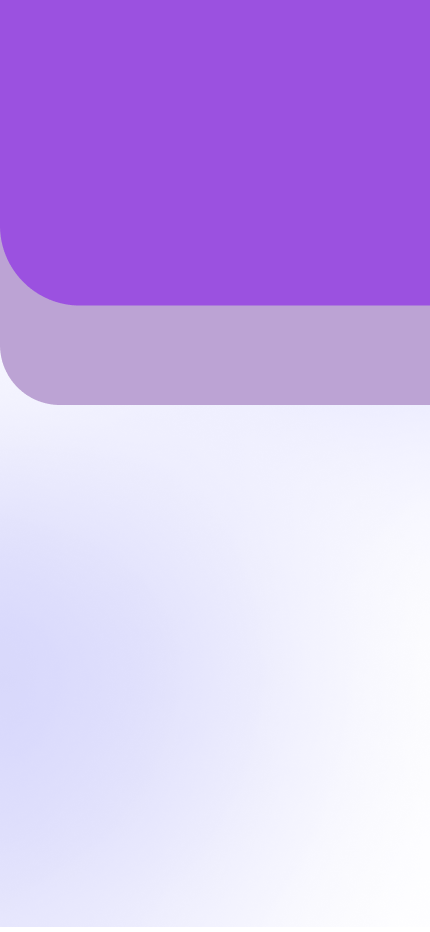
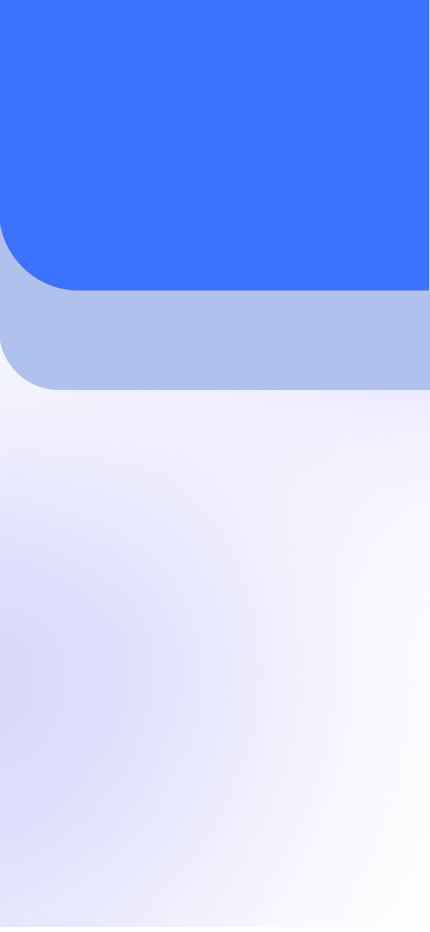
background changed in whole app

diff --git a/lib/employee/main/employee_expense/employee_add_expense_screen.dart b/lib/employee/main/employee_expense/employee_add_expense_screen.dart
@@ -32,7 +32,7 @@ class _EmployeeAddExpenseScreenState extends State<EmployeeAddExpenseScreen> {
         height: double.maxFinite,
         width: double.maxFinite,
         child: Card(
-          color: const Color(0xFF9b51e0),
+          color: const Color(0xFF3b72ff),
           child: SingleChildScrollView(
             padding: const EdgeInsets.symmetric(horizontal: 10),
             child: Column(
@@ -137,7 +137,7 @@ class _EmployeeAddExpenseScreenState extends State<EmployeeAddExpenseScreen> {
                         },
                         child: Container(
                           decoration: BoxDecoration(
-                            color: const Color(0xff1707c7),
+                            color: const Color(0xff0d0080),
                             borderRadius: BorderRadius.circular(10),
                           ),
                           margin: const EdgeInsets.only(right: 10),

diff --git a/lib/employee/main/employee_expense/employee_expense_screen.dart b/lib/employee/main/employee_expense/employee_expense_screen.dart
@@ -46,7 +46,7 @@ class _EmployeeExpenseScreenState extends State<EmployeeExpenseScreen> {
             Container(
               width: double.maxFinite,
               decoration: const BoxDecoration(
-                  color: Color(0xFF9b51e0),
+                  color: Color(0xFF3b72ff),
                   borderRadius: BorderRadius.only(bottomLeft: Radius.circular(50))
               ),
               padding: const EdgeInsets.only(left: 20, right: 20, top: 40, bottom: 20),
@@ -79,7 +79,7 @@ class _EmployeeExpenseScreenState extends State<EmployeeExpenseScreen> {
         ),
       ),
       floatingActionButton: FloatingActionButton(
-        backgroundColor: Color(0xFF9b51e0),
+        backgroundColor: Color(0xFF3b72ff),
         onPressed: () {
           Navigator.push(context, MaterialPageRoute(builder: (context)=> EmployeeAddExpenseScreen(employeeId: widget.employeeId)));
         },

diff --git a/lib/components/auth/auth_button.dart b/lib/components/auth/auth_button.dart
@@ -18,7 +18,7 @@ class AuthButton extends StatelessWidget{
       child: ElevatedButton(
           onPressed: onTap,
           style: ButtonStyle(
-              backgroundColor: MaterialStateProperty.all<Color>(const Color(0xFF9652f9)),
+              backgroundColor: MaterialStateProperty.all<Color>(const Color(0xFF3b72ff)),
               shape: MaterialStateProperty.all<RoundedRectangleBorder>(
                   RoundedRectangleBorder(
                       borderRadius: BorderRadius.circular(40),

diff --git a/lib/employee/main/employee_salary/employee_salary_screen.dart b/lib/employee/main/employee_salary/employee_salary_screen.dart
@@ -34,7 +34,7 @@ class _EmployeeSalaryScreenState extends State<EmployeeSalaryScreen> {
             Container(
               width: double.maxFinite,
               decoration: const BoxDecoration(
-                  color: Color(0xFF9b51e0),
+                  color: Color(0xFF3b72ff),
                 borderRadius: BorderRadius.only(bottomLeft: Radius.circular(50))
               ),
               padding: const EdgeInsets.only(left: 20, right: 20, top: 40, bottom: 20),
